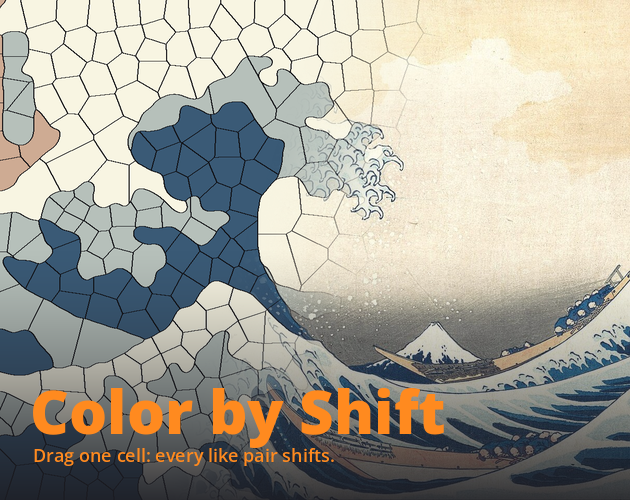
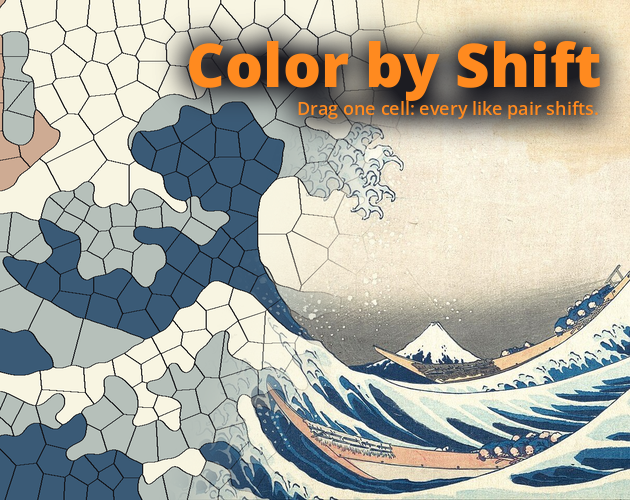
Step 4: cover title flush right at the top right, on a glow

diff --git a/tools/make_cover.py b/tools/make_cover.py
@@ -22,7 +22,7 @@ import json
 from pathlib import Path
 
 import numpy as np
-from PIL import Image, ImageDraw, ImageFont
+from PIL import Image, ImageDraw, ImageFilter, ImageFont
 
 ROOT = Path(__file__).resolve().parents[1]
 DATA = ROOT / "game" / "data"
@@ -81,11 +81,13 @@ def crop(img: np.ndarray, aspect: float, ax: float, ay: float) -> Image.Image:
 
 
 def shade(img: Image.Image, side: str, reach: float, strength: float = 0.82) -> Image.Image:
-    """Darkens toward one side (bottom or left), so that the title reads."""
+    """Darkens toward one side (top, bottom or left), so that the title reads."""
     w, h = img.size
     a = np.asarray(img).astype(float)
     if side == "bottom":
         t = np.clip((np.arange(h) / h - (1 - reach)) / reach, 0, 1)[:, None, None]
+    elif side == "top":
+        t = np.clip((reach - np.arange(h) / h) / reach, 0, 1)[:, None, None]
     else:
         t = np.clip((reach - np.arange(w) / w) / reach, 0, 1)[None, :, None]
     t = strength * t**1.3
@@ -115,13 +117,29 @@ def draw_title(
     size: int,
     tagline: bool,
     ink: tuple[int, int, int] = TEXT,
+    right: bool = False,
 ) -> None:
-    """Title, tagline under it, and the level's colours as small squares (if a level)."""
+    """Title, tagline under it, and the level's colours as small squares (if a level). With
+    right, x is the right edge and both lines are flush right."""
     d = ImageDraw.Draw(img)
     big = font(size, 800)
-    d.text((x, y), TITLE, font=big, fill=ink)
     small = font(round(size * 0.3), 600)
     ty = y + round(size * 1.22)
+    if right:
+        # a soft dark glow behind the letters only, so that the painting stays as it is
+        mask = Image.new("L", img.size, 0)
+        m = ImageDraw.Draw(mask)
+        m.text((x, y), TITLE, font=big, fill=255, anchor="ra")
+        if tagline:
+            m.text((x - 3, ty), TAGLINE, font=small, fill=255, anchor="ra")
+        glow = mask.filter(ImageFilter.MaxFilter(9)).filter(ImageFilter.GaussianBlur(size * 0.22))
+        glow = glow.point(lambda v: min(255, round(v * 1.6 * 0.8)))
+        img.paste(Image.new("RGB", img.size, BACK), (0, 0), glow)
+        d.text((x, y), TITLE, font=big, fill=ink, anchor="ra")
+        if tagline:
+            d.text((x - 3, ty), TAGLINE, font=small, fill=ink, anchor="ra")
+        return
+    d.text((x, y), TITLE, font=big, fill=ink)
     if tagline:
         d.text((x + 3, ty), TAGLINE, font=small, fill=ink)
     if level is None:
@@ -143,6 +161,7 @@ def main() -> None:
     ap.add_argument("--mid", type=float, default=0.5, help="where foam turns into the scan")
     ap.add_argument("--ink", default="#ff8a1f", help="colour of the title and tagline")
     ap.add_argument("--palette", action="store_true", help="the level's colours under the title")
+    ap.add_argument("--title-at", choices=["top-right", "bottom-left"], default="top-right")
     a = ap.parse_args()
     out = Path(a.out)
     out.mkdir(parents=True, exist_ok=True)
@@ -150,10 +169,14 @@ def main() -> None:
     pic = blend(foam_image(level, labels), scan, a.mid)
 
     cover = crop(pic, 630 / 500, a.anchor, 0.5).resize((630, 500), Image.LANCZOS)
-    cover = shade(cover, "bottom", 0.5, 0.9)
-    squares = level if a.palette else None
-    y = 500 - 34 - round(60 * (2.05 if a.palette else 1.62))
-    draw_title(cover, squares, 30, y, 60, tagline=True, ink=hex_rgb(a.ink))
+    ink = hex_rgb(a.ink)
+    if a.title_at == "top-right":  # over the sky, flush right
+        draw_title(cover, None, 630 - 28, 22, 60, tagline=True, ink=ink, right=True)
+    else:
+        cover = shade(cover, "bottom", 0.5, 0.9)
+        squares = level if a.palette else None
+        y = 500 - 34 - round(60 * (2.05 if a.palette else 1.62))
+        draw_title(cover, squares, 30, y, 60, tagline=True, ink=ink)
     cover.save(out / f"cover_{a.level}.png")
 
     # banner: the title on the left, then whole paintings, each from cells to scan

diff --git a/CLAUDE.md b/CLAUDE.md
@@ -83,6 +83,7 @@ Title "Color by Shift" (Chris, 2026-11-21; the repo and the Python package keep 
 - 2026-11-22: Chris: level grid on a press of the level number (grey solved, white with a lock closed, orange current; open one by one, all after the last 2-move level); progress built with it (none existed): game opens at the saved current level; next button dimmed and Up/Down and back refused toward a closed level; open but unsolved levels after the unlock are white without a lock (my choice). Lock icon from Ionicons (fetch_icons.py), par added to index.json. 309 Godot checks, drag test, 131 Python tests pass; grid checked in the web build at 1280 x 720 and on a phone width; the grey of solved levels not seen on screen yet.
 - 2026-11-22: Chris: no title screen; cover and banner for itch.io. tools/make_cover.py: the level's foam turning into its scan along a soft diagonal, title in Open Sans ExtraBold (assets/fonts, SIL OFL, from google/fonts) on a dark gradient, tagline 'Drag one cell: every like pair shifts.', the level's five colours as small squares; cover 630 x 500 (itch.io's recommended size), banner 1920 x 480 (title panel + two whole paintings; twice the 960 px banner width, which is not settled in itch's community answers). docs/itch: cover_P02 (Matisse), cover_P04 (Great Wave), banner_P02_P04.
 - 2026-11-22: Chris: cover = Great Wave (P04); title and tagline in the game's orange #ff8a1f (--ink), no colour squares (--palette to bring them back); banner the same; docs/itch: cover_P04.png, banner_P02_P04.png.
+- 2026-11-22: Chris: cover title and tagline at the top right, flush right (--title-at top-right, the default), on a soft dark glow behind the letters instead of a gradient. Banner: Chris wants one very wide painting (about 3:1); Cleveland open-access API searched (566 CC0 paintings wider than 2.3:1, mostly Asian scrolls and screens); candidates in runs/cover/banner_candidates (Degas Frieze of Dancers 2.87, del Sellaio Tarquinius Priscus 3.93, Toscani Palio cassone 3.35, Shibata Zeshin Otsu-e 3.42, Whittredge 3.14 ...). Waiting for Chris's pick.
 ## Deadline and jam
 
 - GitHub Game Off 2026, theme SHIFT. Submissions close 1 December 2026 at 21:37 UTC (13:37 PST). Target submission: Monday 30 November, evening (Paris time).
